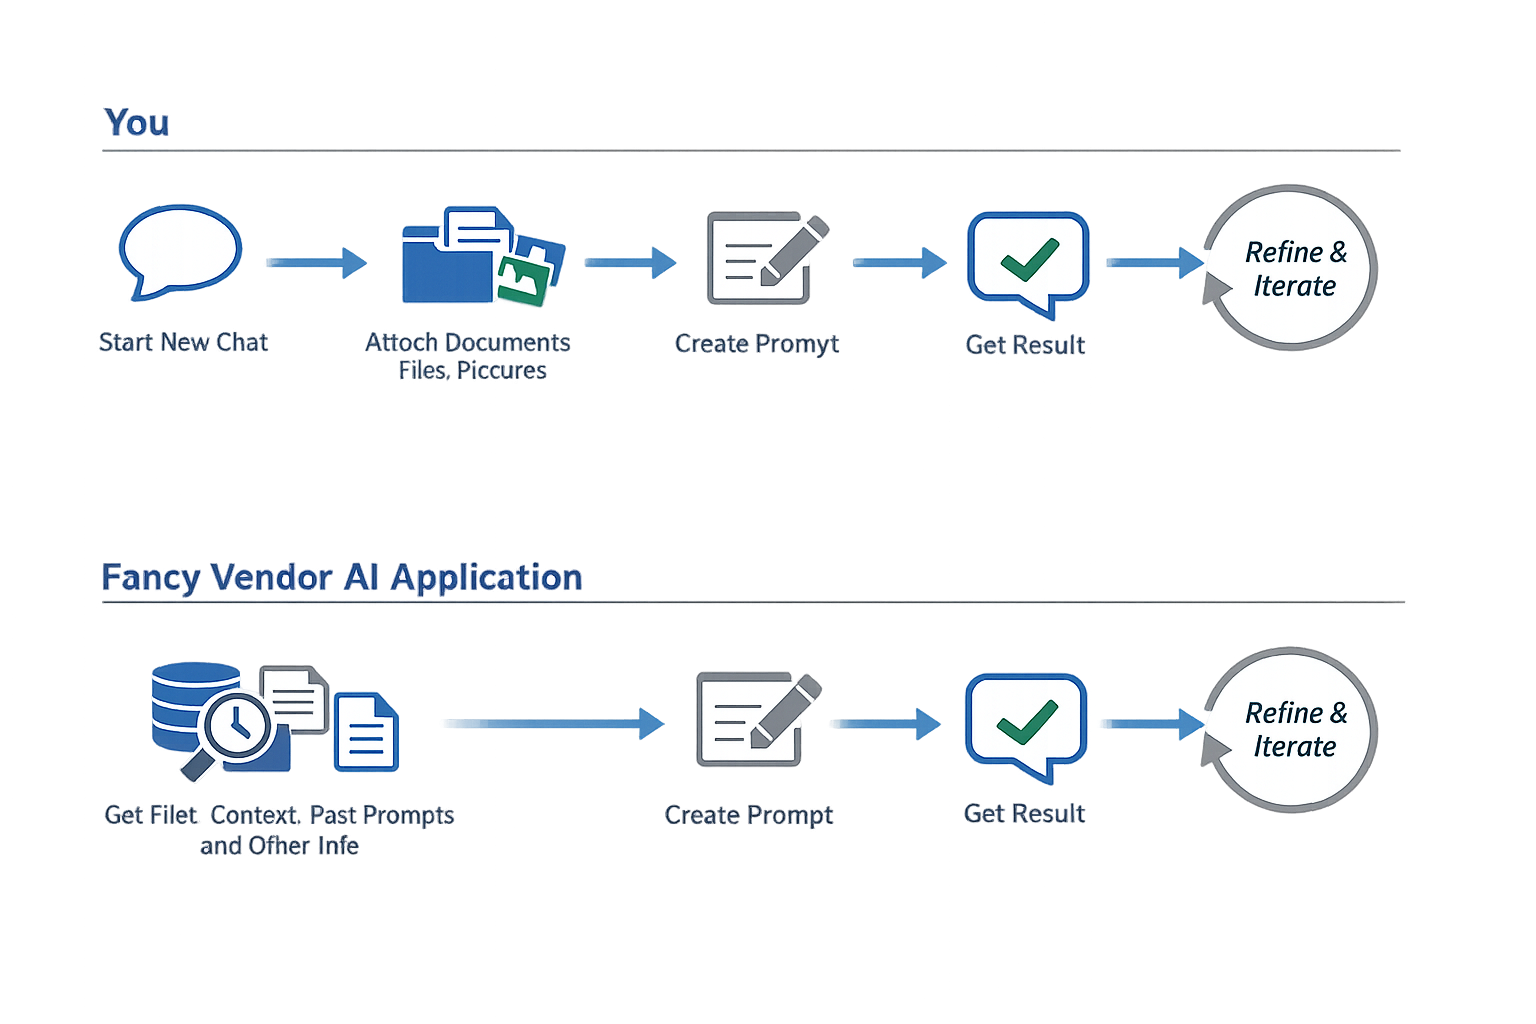
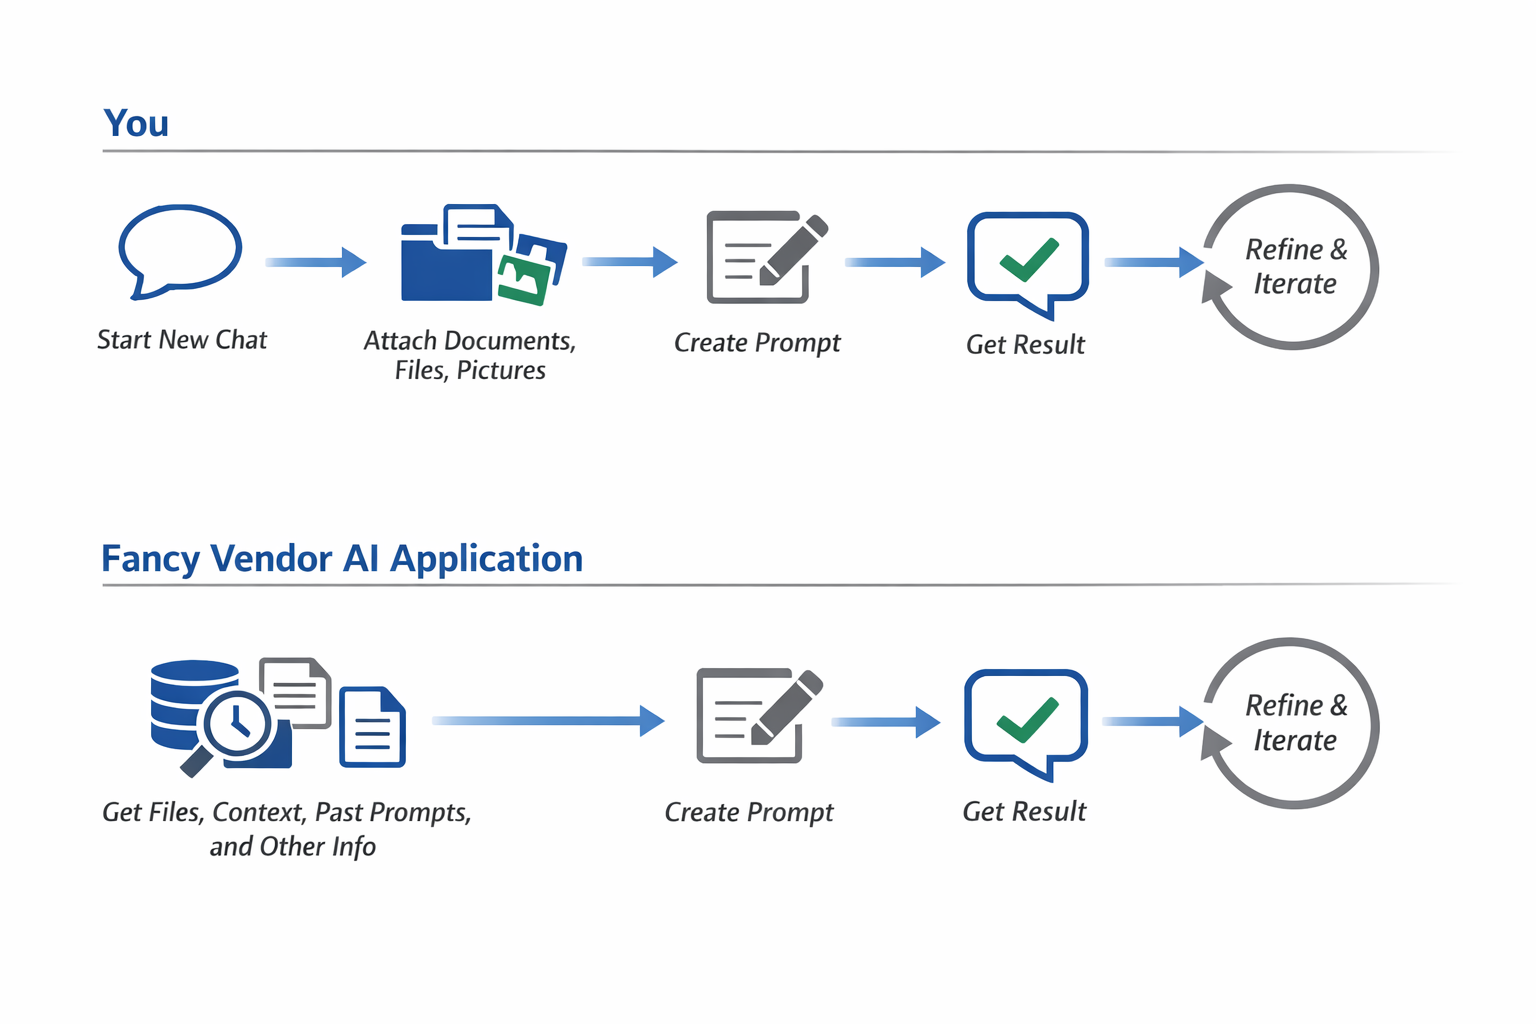
update

diff --git a/_ai_workflows/2025-12-14-where-to-start-with-ai.md b/_ai_workflows/2025-12-14-where-to-start-with-ai.md
@@ -36,7 +36,7 @@ There's an art and skill of creating these seamless experiences with AI, and I'm
 {% include figure
    image_path="/assets/images/2025-12-14-where-to-start-with-ai/1.png"
    alt="A visualization of the AI agent workflow"
-   caption="**Same workflow, different packaging:** Whether you're manually using ChatGPT or paying for a vendor's AI platform, you're following the same process. The vendor just automates the steps you'd do yourself and adds their own secret sauce (e.g., including proprietary instructions based on what they've learned across all their clients, splitting up a single prompt into multiple prompts (this is what \"agentic AI\" means))"
+   caption="**Same workflow, different packaging:** Whether you're manually using ChatGPT or paying for a vendor's AI platform, you're following the same process. The vendor just automates the steps you'd do yourself and adds their own secret sauce (e.g., including proprietary instructions based on what they've learned across all their clients, splitting up a single prompt into multiple prompts (this is what \"agentic AI\" means)). Picture credits: ChatGPT (they've really improved their image generation)"
 %}
 
 ## The Framework I use to advise
